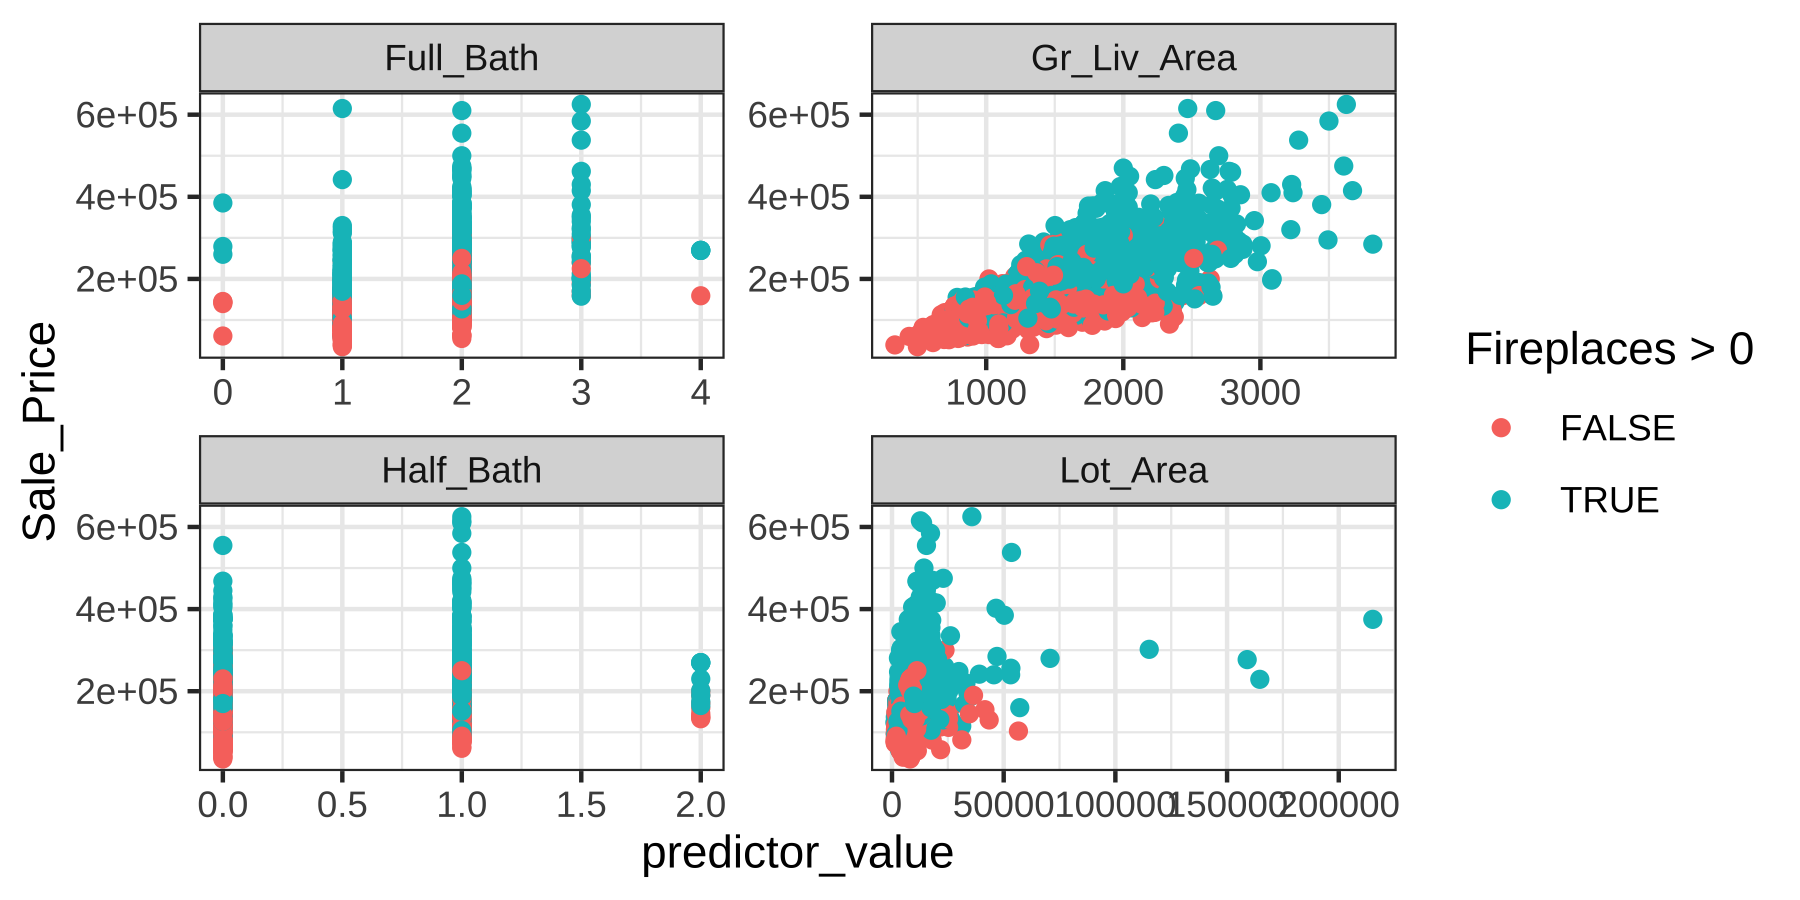
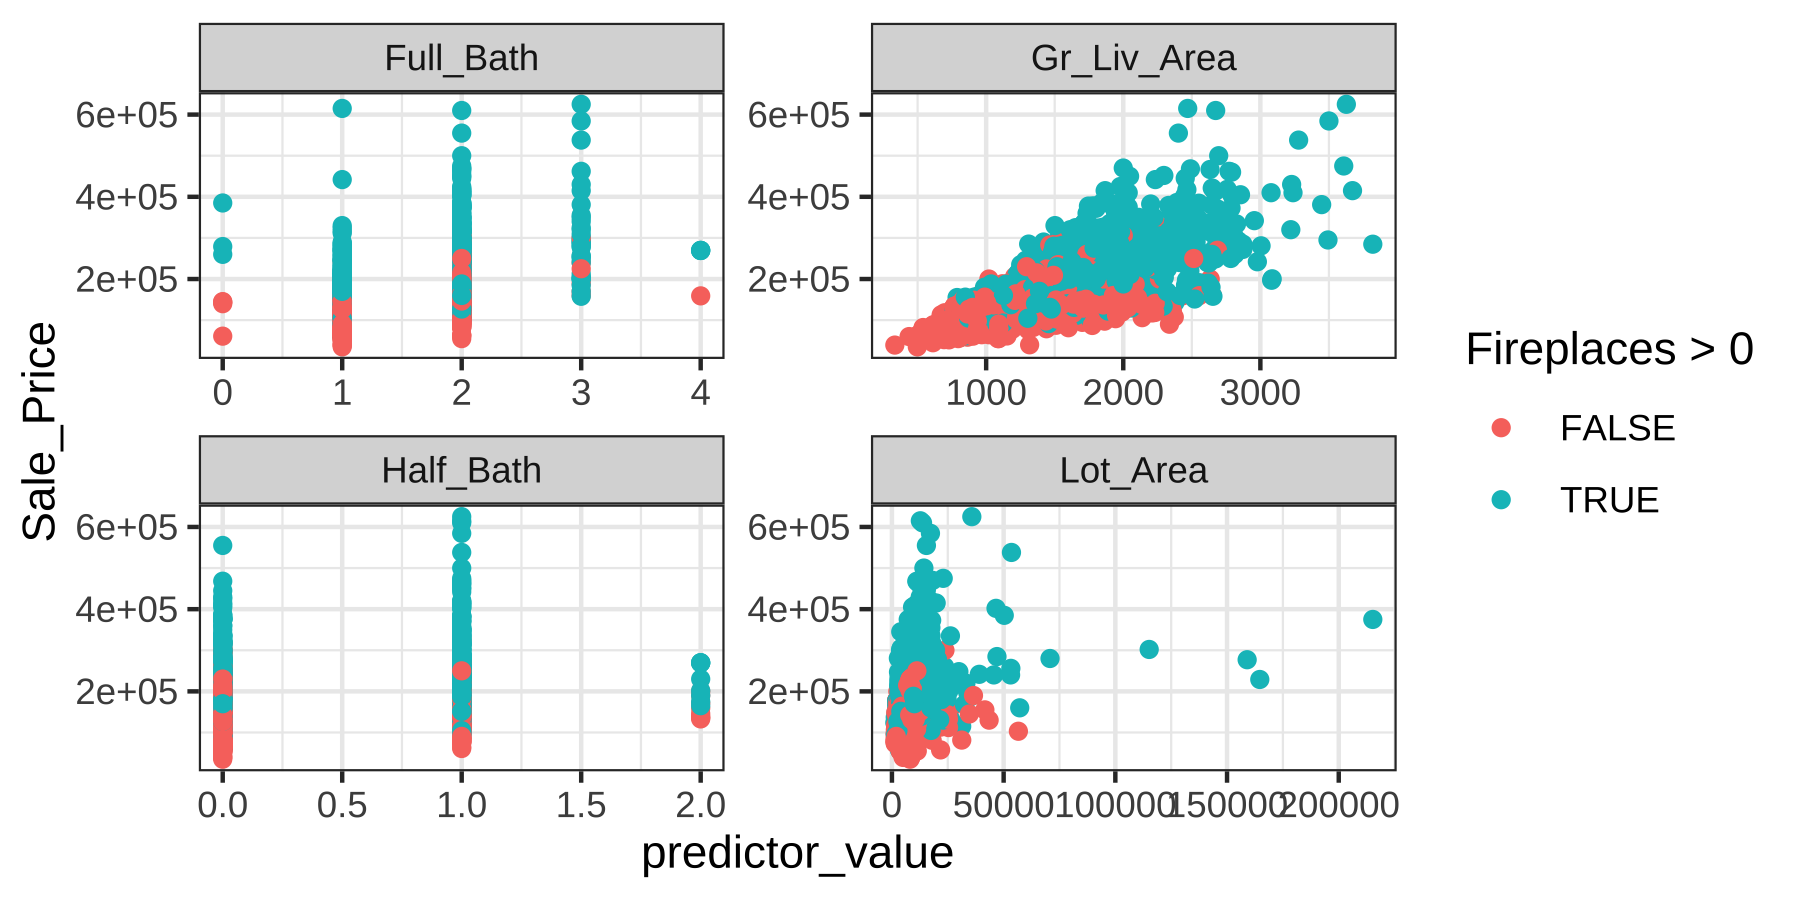
minor slide tweaks

diff --git a/docs/slides/w07/w7d1-model-spec.html b/docs/slides/w07/w7d1-model-spec.html
@@ -1,7 +1,7 @@
 <!DOCTYPE html>
 <html lang="" xml:lang="">
   <head>
-    <title>Cooking with Models</title>
+    <title>How to Make a Predictive Model</title>
     <meta charset="utf-8" />
     <meta name="author" content="K Arnold" />
     <script src="libs/header-attrs/header-attrs.js"></script>
@@ -11,7 +11,7 @@
     <textarea id="source">
 class: center, middle, inverse, title-slide
 
-# Cooking with Models
+# How to Make a Predictive Model
 ### K Arnold
 
 ---
@@ -155,11 +155,11 @@ Some others:
 
 ---
 
-## Example data
+## Example data: Ames home sales
 
 
 .pull-left[
-We subset the data as [De Cock](http://jse.amstat.org/v19n3/decock.pdf) suggests.
+Like before, but we subset the data as [De Cock](http://jse.amstat.org/v19n3/decock.pdf) suggests.
 Again, see [Data dictionary](http://jse.amstat.org/v19n3/decock/DataDocumentation.txt)
 
 
@@ -365,7 +365,7 @@ my_trained_model %&gt;%
 
 ## Which variables mean what?
 
-The *formula interface*
+The *formula interface*:
 
 * `y ~ x`
   * predict *y* using *x*. `Sale_Price ~ Lot_Area`
